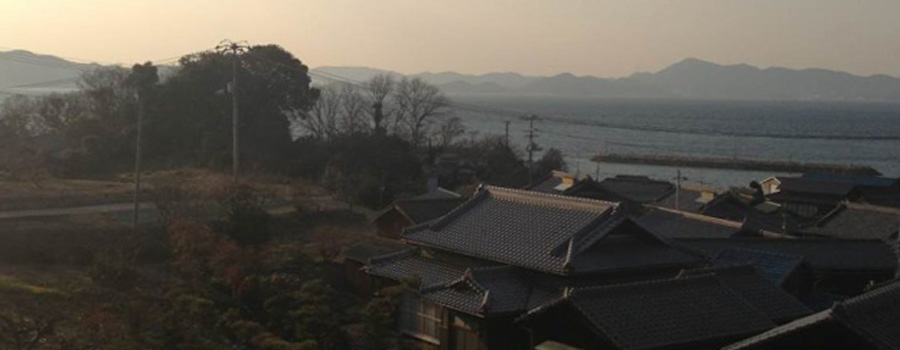
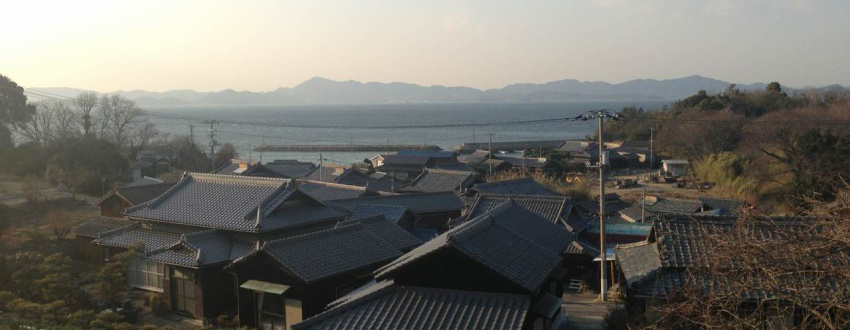
modified top img, top menu

diff --git a/index.html b/index.html
@@ -21,10 +21,10 @@
 	  <div id="headline">
 			<div id="header_container">
 				<h1>瀬戸内海豊島のレンタサイクル・カフェ・ギャラリー「みずたまや」</h1>
-				<ul>
-					<li><a href="#">Japanese</a></li>
-					<li><a href="#">English</a></li>
-				</ul>
+				<!-- <ul> -->
+				<!-- 	<li><a href="#">Japanese</a></li> -->
+				<!-- 	<li><a href="#">English</a></li> -->
+				<!-- </ul> -->
 			</div>
 	  </div>
 
@@ -59,6 +59,8 @@
 					<li><img src="img/top/1.jpg" alt="" /></li>
 					<li><img src="img/top/2.jpg" alt="" /></li>
 					<li><img src="img/top/3.jpg" alt="" /></li>
+					<li><img src="img/top/4.jpg" alt="" /></li>
+					<li><img src="img/top/5.jpg" alt="" /></li>
 				</ul>
 			</div>
       <!-- <img src="img/slideshow.jpg" alt="スライドショー"> -->
